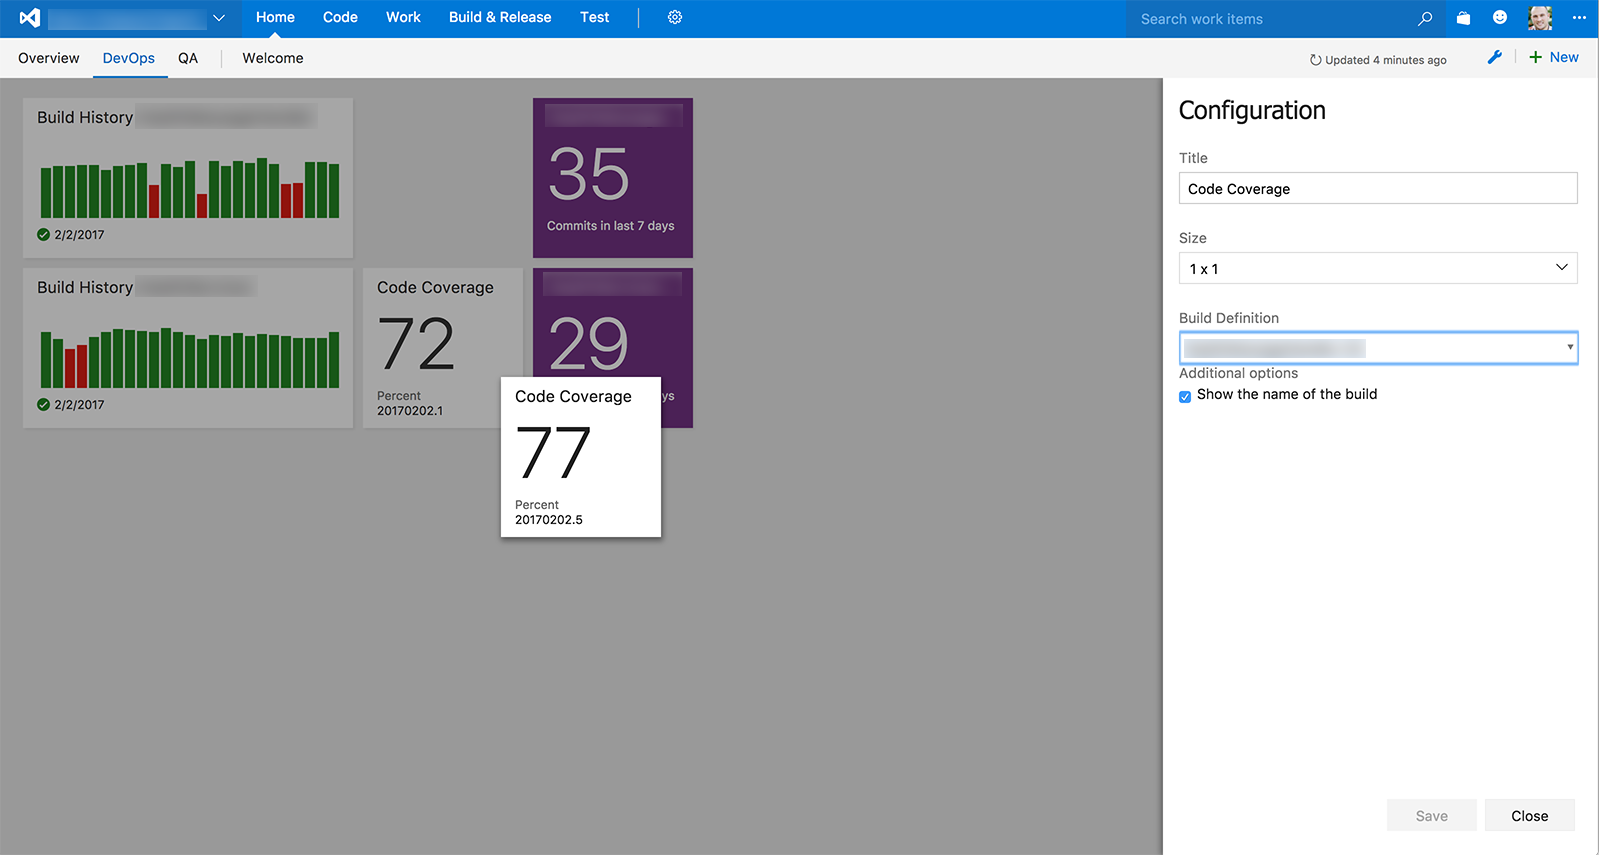
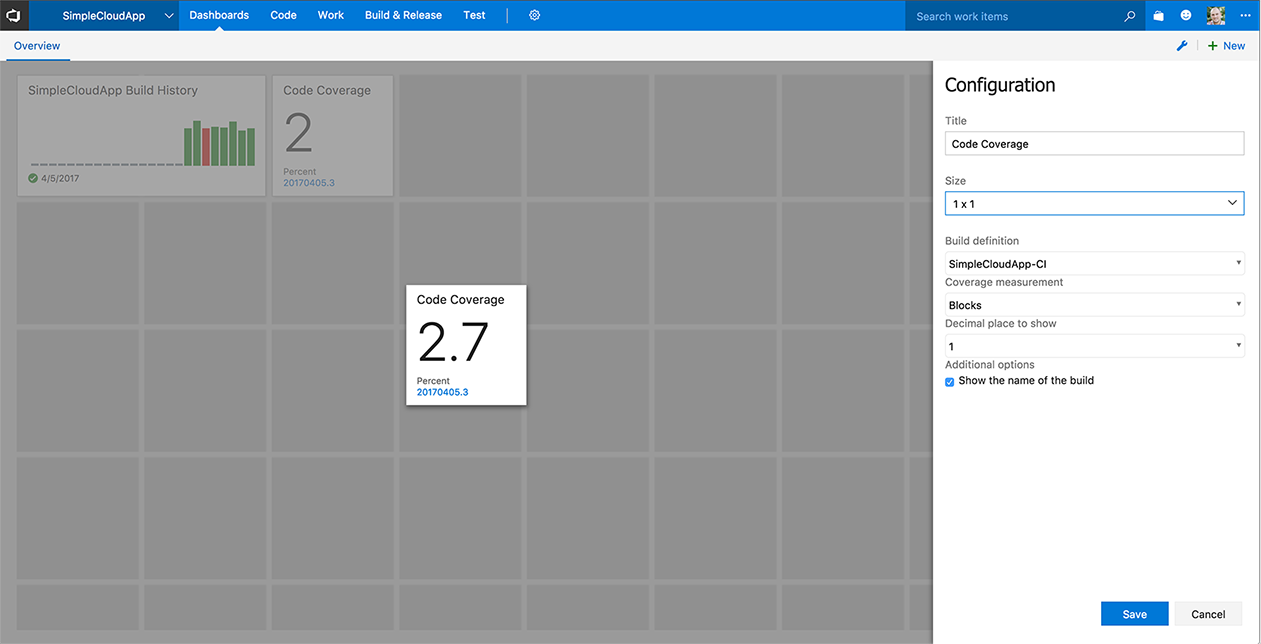
fixes #8 fixes #12

diff --git a/configuration.html b/configuration.html
@@ -18,6 +18,7 @@
                     var projectId = VSS.getWebContext().project.id;
                     var $buildDefinitionDropdown = $("#build-definition-dropdown");
                     var $coverageMeasurementDropdown = $("#coverage-measurement-dropdown");
+                    var $decimalPlacesDropdown = $("#decimal-places-dropdown");
                     var $checkOptionBuildName = $("#check-option-build-name");
 
                     return {
@@ -54,8 +55,17 @@
                                     $coverageMeasurementDropdown.val(settings.coverageMeasurement).trigger("chosen:updated");
                                 }
                                 else {
-                                    // Set Lines... item as the default
+                                    // Set Lines... item as the default regardless of project type
                                     $('#coverage-measurement-dropdown').val('Lines');
+                                }
+
+                                // If number of decimal places has been previously selected, set the dropdown value
+                                if (settings && settings.decimalPlaces) {
+                                    $decimalPlacesDropdown.val(settings.decimalPlaces).tigger("chosen:updated");
+                                }
+                                else {
+                                    // Set zero... item as the default
+                                    $('#decimal-places-dropdown').val('0');
                                 }
 
                                 // Use the widget helper and return success as Widget Status
@@ -81,6 +91,7 @@
                                     data: JSON.stringify({
                                         buildDefinition: $buildDefinitionDropdown.val(),
                                         coverageMeasurement: $coverageMeasurementDropdown.val(),
+                                        decimalPlaces: $decimalPlacesDropdown.val(),
                                         checkOptionBuildName: $checkOptionBuildName.prop('checked') 
                                     })
                                 };
@@ -95,6 +106,22 @@
                                     data: JSON.stringify({
                                         buildDefinition: $buildDefinitionDropdown.val(),
                                         coverageMeasurement: $coverageMeasurementDropdown.val(),
+                                        decimalPlaces: $decimalPlacesDropdown.val(),
+                                        checkOptionBuildName: $checkOptionBuildName.prop('checked') 
+                                    })
+                                };
+                                var eventName = WidgetHelpers.WidgetEvent.ConfigurationChange;
+                                var eventArgs = WidgetHelpers.WidgetEvent.Args(customSettings);
+                                widgetConfigurationContext.notify(eventName, eventArgs);
+                            });
+
+                            // If a decimal places shown change has been made, prepare to persist the new values
+                            $decimalPlacesDropdown.on("change", function () {
+                                var customSettings = {
+                                    data: JSON.stringify({
+                                        buildDefinition: $buildDefinitionDropdown.val(),
+                                        coverageMeasurement: $coverageMeasurementDropdown.val(),
+                                        decimalPlaces: $decimalPlacesDropdown.val(),
                                         checkOptionBuildName: $checkOptionBuildName.prop('checked') 
                                     })
                                 };
@@ -109,6 +136,7 @@
                                     data: JSON.stringify({
                                         buildDefinition: $buildDefinitionDropdown.val(),
                                         coverageMeasurement: $coverageMeasurementDropdown.val(),
+                                        decimalPlaces: $decimalPlacesDropdown.val(),
                                         checkOptionBuildName: $checkOptionBuildName.prop('checked')
                                     })
                                 };
@@ -125,6 +153,7 @@
                                 data: JSON.stringify({
                                     buildDefinition: $buildDefinitionDropdown.val(),
                                     coverageMeasurement: $coverageMeasurementDropdown.val(),
+                                    decimalPlaces: $decimalPlacesDropdown.val(),
                                     checkOptionBuildName: $checkOptionBuildName.prop('checked')
                                 })
                             };
@@ -140,7 +169,7 @@
         <div class="widget-configuration">
 
             <div class="dropdown">
-                <label>Build Definition</label>
+                <label>Build definition</label>
                 <div class="wrapper">
                     <select id="build-definition-dropdown">                        
                         <!--<option value="Shared Queries/Feedback">Shared Queries/Feedback</option>-->                                                 
@@ -148,11 +177,27 @@
                 </div>
             </div>
             <div class="dropdown">
-                <label>Coverage Measurement</label>
+                <label>Coverage measurement</label>
                 <div class="wrapper">
-                    <select id="coverage-measurement-dropdown">                        
+                    <select id="coverage-measurement-dropdown">                                              
                         <option value="Blocks">Blocks</option>
+                        <option value="Branch">Branch</option>
+                        <option value="Class">Class</option>
+                        <option value="Complexity">Complexity</option>
+                        <option value="Instruction">Instruction</option>
+                        <option value="Line">Line</option>
                         <option value="Lines">Lines</option>
+                        <option value="Method">Method</option>
+                    </select>
+                </div>
+            </div>
+            <div class="dropdown">
+                <label>Decimal place to show</label>
+                <div class="wrapper">
+                    <select id="decimal-places-dropdown">                                              
+                        <option value="0">0</option>
+                        <option value="1">1</option>
+                        <option value="2">2 (may require resizing widget)</option>
                     </select>
                 </div>
             </div>

diff --git a/code-coverage1.html b/code-coverage1.html
@@ -47,31 +47,40 @@
                                         .then(function (query3) {
                                             // Evaluate for where there is no coverage data                                        
                                             if (query3.coverageData[0]) {
-                                                // Filter for line coverage measurement (default)
+                                                // Filter for selected coverage measurement
+                                                var coverageMeasurement = "";
+                                                if (!settings || !settings.coverageMeasurement) {
+                                                    // Default to Lines if not previously chosen
+                                                    coverageMeasurement = "Lines";
+                                                }
+                                                else {
+                                                    coverageMeasurement = settings.coverageMeasurement;
+                                                }
                                                 var coverageData = query3.coverageData[0].coverageStats.filter(function (el) {
-                                                    return el.label == "Lines" ||
-                                                           el.label == "Line";
-                                                });
-                                                
-                                                // Check if blocks coverage measurement is preferred
-                                                if (settings && settings.coverageMeasurement == "Blocks")
-                                                var coverageData = query3.coverageData[0].coverageStats.filter(function (el) {
-                                                    return el.label == "Blocks";
+                                                    return el.label == coverageMeasurement;
                                                 });
                                                 
                                                 // Iterate and count code coverage items
-                                                var totalMesurement = 0;
+                                                var totalMeasurement = 0;
                                                 var coveredMeasurement = 0;
                                                 var coveragePct = 0;
                                                 $.each(coverageData, function(key, value) {
-                                                    totalMesurement += value.total;
+                                                    totalMeasurement += value.total;
                                                     coveredMeasurement += value.covered;
                                                 });
-
+                                                                                           
                                                 // Calculate code coverage percentage
                                                 // This check avoids divide by zero error
-                                                if (totalMesurement > 0) {
-                                                    coveragePct = Math.round((coveredMeasurement / totalMesurement) * 100);
+                                                if (totalMeasurement > 0) {
+                                                    coveragePct = ((coveredMeasurement / totalMeasurement) * 100);
+                                                    // Determine and set the requested number of decimal places
+                                                    if (!settings || !settings.decimalPlaces) {
+                                                        // Default to zero if not previously chosen
+                                                        coveragePct = coveragePct.toFixed(0);
+                                                    }
+                                                    else {
+                                                        coveragePct = coveragePct.toFixed(parseInt(settings.decimalPlaces));
+                                                    }
                                                 }
 
                                                 // Fetch build name

diff --git a/overview.md b/overview.md
@@ -1,6 +1,17 @@
 #Visual Studio Team Services Code Coverage Widgets#
 
 ## Release Notes
+* 1.0.171
+    * Added configuration option to display up to two decimal places. Zero is the default.
+    * Added broader configuration options for broader coverage measurement:
+        * Blocks
+        * Branch
+        * Class
+        * Complexity
+        * Instruction
+        * Line
+        * Lines (this is the default)
+        * Method
 * 1.0.166
     * Added configuration option to measure Lines or Blocks.
 * 1.0.162
@@ -26,7 +37,10 @@ The following configuration options are available:
 ![](img/screenshots/configuration.png)
 
 * **Title** - Title of the widget as it is displayed on the dashboard.
-* **Build Definition** - Choose the build definition you want code coverage displayed for on the widget.
+* **Size** - Allows the widget to be resized to 1x1 or 2x1 (2 columns wide).
+* **Build definition** - Choose the build definition you want code coverage displayed for on the widget.
+* **Coverage measurement** - Choose a coverage measurement type. Lines is the default.
+* **Decimal places to show** - Choose the number of decimal places to show. Zero is the default.
 * **Additional options**
     * **Show the name of the build** - Select if you want the name of the build to be displayed on the widget.
 
